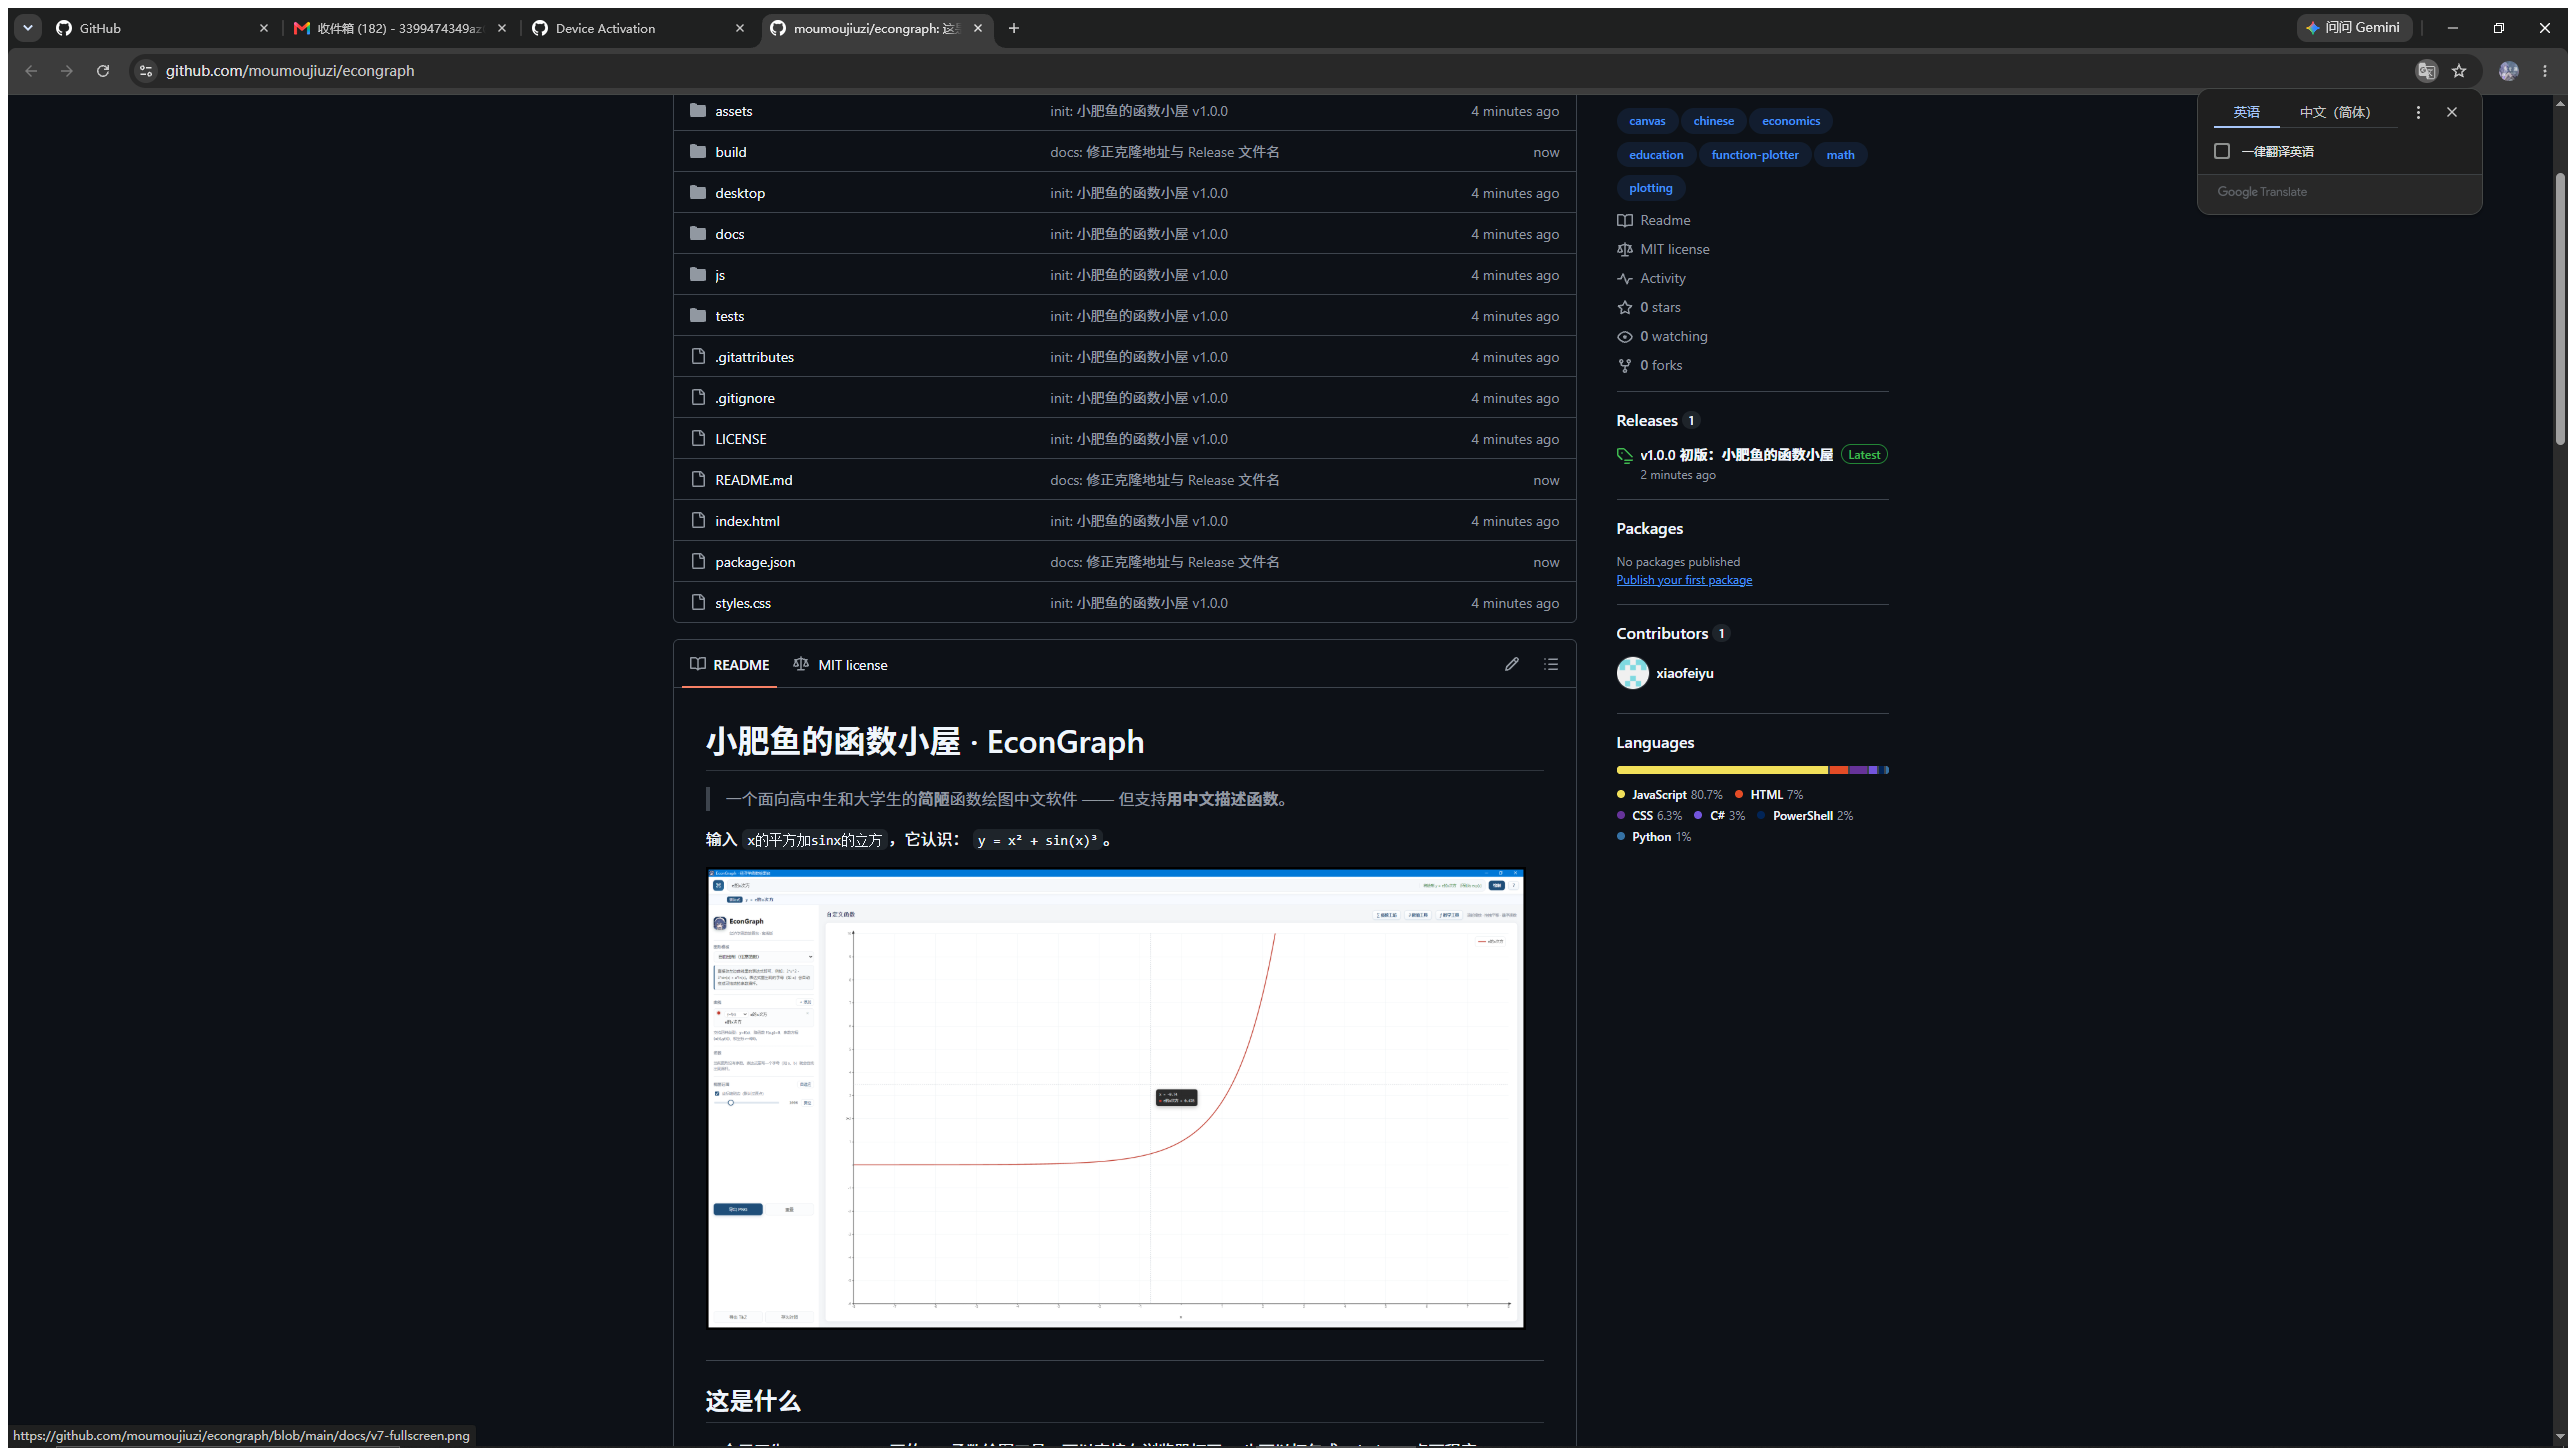
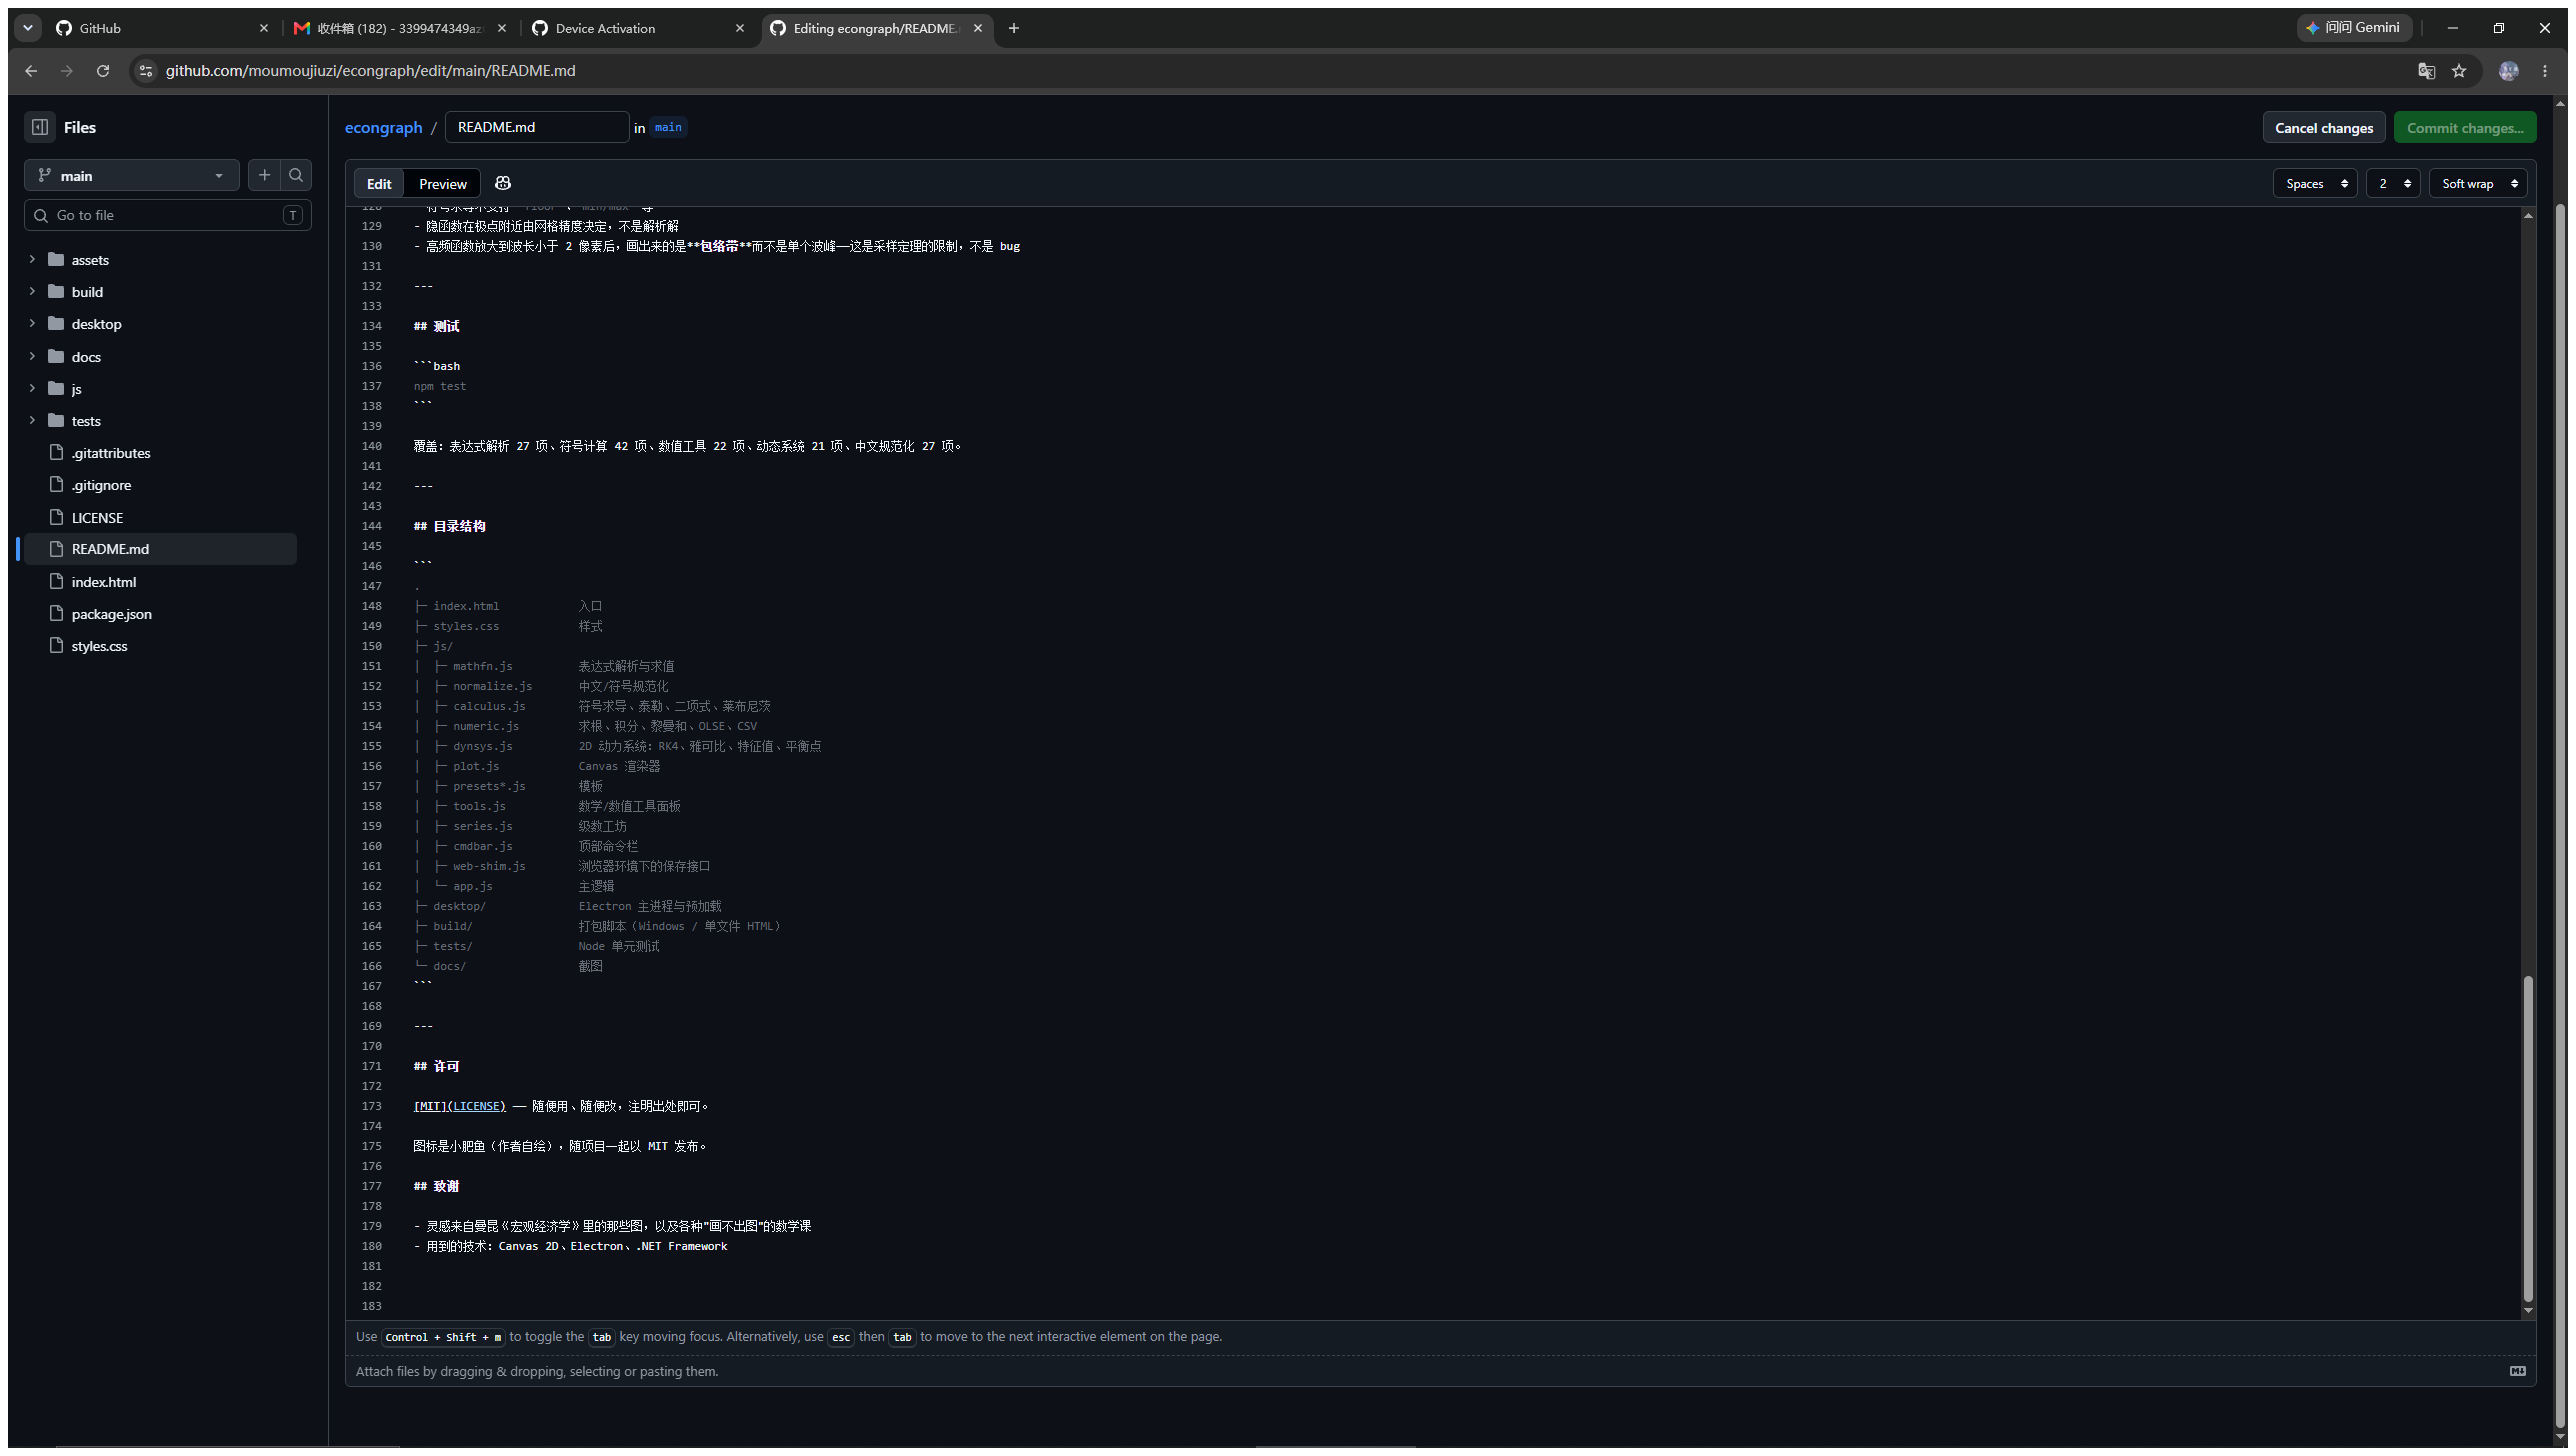
docs: 加在线试用徽章与页面截图

diff --git a/README.md b/README.md
@@ -2,6 +2,8 @@
 
 > 一个面向高中生和大学生的**简陋**函数绘图中文软件 —— 但支持**用中文描述函数**。
 
+[![在线试用](https://img.shields.io/badge/%E5%9C%A8%E7%BA%BF%E8%AF%95%E7%94%A8-%E7%82%B9%E6%88%91-1f4e79)](https://moumoujiuzi.github.io/econgraph/) [![License: MIT](https://img.shields.io/badge/License-MIT-green.svg)](LICENSE) [![Release](https://img.shields.io/github/v/release/moumoujiuzi/econgraph)](../../releases)
+
 输入 `x的平方加sinx的立方`，它认识：
 `y = x² + sin(x)³`。
 
@@ -178,5 +180,6 @@ npm test
 
 - 灵感来自曼昆《宏观经济学》里的那些图，以及各种"画不出图"的数学课
 - 用到的技术：Canvas 2D、Electron、.NET Framework
+
 
 
